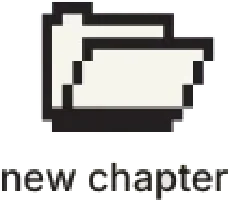
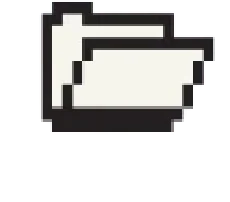
feat: terminal typing clicks, smaller LOGIN SUCCESSFUL, no static on the phone intro-to-journey, folder names as text

Changed region(s): [[0.3652, 0.802, 1.0, 1.0], [0.0, 0.8317, 0.3348, 0.9505]]

diff --git a/prototype-mobile/app.js b/prototype-mobile/app.js
@@ -116,6 +116,7 @@
         el.play().then(() => { playing = true; if (!muted) fadeIn(); ui(); }, () => { playing = false; ui(); });
       },
       stop() { el.pause(); playing = false; ui(); },
+      isMuted: () => muted,
       toggle() {
         if (!playing) {
           muted = false;
@@ -133,6 +134,38 @@
   })();
   $('#mute').addEventListener('click', e => { e.stopPropagation(); Music.toggle(); });
 
+  // ---------------------------------------------------------------- the terminal's key clicks
+  // A few milliseconds of filtered noise per character (no sound file). The audio context is made
+  // inside the Enter tap; the music button's mute silences it too.
+  const Typing = (() => {
+    let ctx = null;
+    let noise = null;
+    return {
+      unlock() { try { ctx = ctx || new AudioContext(); ctx.resume(); } catch (e) { ctx = null; } },
+      tick(ch) {
+        if (!ctx || ctx.state !== 'running' || Music.isMuted() || ch === ' ') return;
+        if (!noise) {
+          noise = ctx.createBuffer(1, Math.ceil(ctx.sampleRate * 0.03), ctx.sampleRate);
+          const d = noise.getChannelData(0);
+          for (let i = 0; i < d.length; i++) d[i] = Math.random() * 2 - 1;
+        }
+        const t = ctx.currentTime;
+        const src = ctx.createBufferSource();
+        src.buffer = noise;
+        const f = ctx.createBiquadFilter();
+        f.type = 'bandpass';
+        f.frequency.value = 1800 + Math.random() * 1600;
+        f.Q.value = 1.2;
+        const g = ctx.createGain();
+        g.gain.setValueAtTime(0.05 * (0.7 + Math.random() * 0.6), t);
+        g.gain.exponentialRampToValueAtTime(0.0001, t + 0.028);
+        src.connect(f).connect(g).connect(ctx.destination);
+        src.start(t);
+        src.stop(t + 0.03);
+      },
+    };
+  })();
+
   // ================================================================ 01 · gate
   const pw = $('#pw');
   const go = $('#go');
@@ -144,6 +177,7 @@
   function enter() {
     if (busy || current !== 1) return;
     Music.playMutedSync();  // inside the gesture, before anything async
+    Typing.unlock();
     if (!pw.value.trim()) {
       Music.stop();
       pill.classList.remove('is-wrong');
@@ -238,6 +272,7 @@
     p.append(tn, caret);
     for (const ch of text) {
       tn.data += ch;
+      if (!reduced) Typing.tick(ch);
       await wait(reduced ? 0 : speed * rand(0.55, 1.45) + (ch === ' ' ? 18 : 0));
     }
   }
@@ -538,42 +573,10 @@
       setTimeout(finish, ms + 400);
     });
   }
-  // a short burst of analog-TV static over the cut between the film and the meadow
-  const burstEl = $('#burst');
-  const burstCv = $('canvas', burstEl);
-  const bars = Array.from({ length: 5 }, () => { const i = document.createElement('i'); burstEl.append(i); return i; });
-  async function burst(ms = 560) {
-    if (reduced) { await wait(150); return; }
-    const ctx = burstCv.getContext('2d');
-    const t0 = performance.now();
-    burstEl.style.opacity = 1;
-    const tick = () => {
-      const k = Math.sin(Math.min(1, (performance.now() - t0) / ms) * Math.PI);
-      const img = ctx.createImageData(burstCv.width, burstCv.height);
-      const hot = 0.04 + 0.2 * k;
-      for (let i = 0; i < img.data.length; i += 4) {
-        const v = Math.random() < hot ? 255 : Math.random() * 120;
-        img.data[i] = img.data[i + 1] = img.data[i + 2] = v;
-        img.data[i + 3] = 255;
-      }
-      ctx.putImageData(img, 0, 0);
-      burstCv.style.opacity = (0.15 + 0.7 * k * rand(0.5, 1)).toFixed(2);
-      bars.forEach(b => {
-        b.style.top = rand(0, 95) + '%';
-        b.style.height = rand(1.5, 9) * (0.4 + k) + '%';
-        b.style.transform = `translateX(${rand(-6, 6) * k}%)`;
-        b.style.opacity = Math.random() < 0.8 ? (0.35 + 0.5 * k).toFixed(2) : 0;
-      });
-    };
-    const iv = setInterval(tick, 33);
-    await wait(ms);
-    clearInterval(iv);
-    burstEl.style.opacity = 0;
-  }
 
-  // 03 -> 04: the camera pushes into the screen until the film fills the view, a burst of static
-  // covers the cut, and the camera travels on into the meadow (its layers come up from a little
-  // way back, the nearer ones moving faster)
+  // 03 -> 04: the camera pushes into the screen until the film fills the view, the film dissolves
+  // (no static: there is no monitor on the phone), and the camera travels on into the meadow (its
+  // layers come up from a little way back, the nearer ones moving faster)
   async function go34(target = 4) {
     busy = true;
     const st3 = stageOf(3);
@@ -583,14 +586,15 @@
     folder4.style.opacity = 0;
     play($('.s03-ui', st3), [{ opacity: 1 }, { opacity: 0 }], { duration: 300 });
     await play(st3, [{ transform: 'none' }, { transform: 'scale(1.6)' }], { duration: 1300, easing: 'cubic-bezier(.45,0,.9,.6)' });
-    const cover = burst(560);
-    await wait(230);
-    hide(3);
-    resetStyles(st3, $('.s03-ui', st3));
-    video3.pause();
     show(4);
+    const dissolve = play(scenes[3], [{ opacity: 1 }, { opacity: 0 }], { duration: 700, easing: 'ease-in-out' }).then(() => {
+      hide(3);
+      scenes[3].style.removeProperty('opacity');
+      resetStyles(st3, $('.s03-ui', st3));
+      video3.pause();
+    });
     await Promise.all([
-      cover,
+      dissolve,
       tween(reduced ? 200 : 2100, easeOut3, poseArrival),
       play(folder4, [{ opacity: 0 }, { opacity: 1 }], { duration: 700, delay: 1500 }),
     ]);
@@ -600,7 +604,7 @@
     busy = false;
   }
 
-  // 04 -> 03: the camera backs out of the meadow, static covers the cut, the film pulls back
+  // 04 -> 03: the camera backs out of the meadow, the film dissolves in and pulls back (no static)
   async function go43() {
     busy = true;
     const st3 = stageOf(3);
@@ -608,18 +612,19 @@
     if (winOpen) play(win4, [{ opacity: 1 }, { opacity: 0 }], { duration: 400 });
     play(folder4, [{ opacity: 1 }, { opacity: 0 }], { duration: 400 });
     await tween(reduced ? 200 : 1200, easeIn2, q => poseArrival(1 - q));
-    const cover = burst(560);
-    await wait(230);
     st3.style.transform = 'scale(1.6)';
     $('.s03-ui', st3).style.opacity = 0;
+    scenes[3].style.opacity = 0;
     show(3);
     video3.style.opacity = 1;  // the film may never have tuned in (a ?scene= jump)
     video3.play().catch(() => {});
-    hide(4);
-    reset04();
-    restWorld(null);
     await Promise.all([
-      cover,
+      play(scenes[3], [{ opacity: 0 }, { opacity: 1 }], { duration: 600, easing: 'ease-in-out' }).then(() => {
+        scenes[3].style.removeProperty('opacity');
+        hide(4);
+        reset04();
+        restWorld(null);
+      }),
       play(st3, [{ transform: 'scale(1.6)' }, { transform: 'none' }], { duration: 1600, easing: 'cubic-bezier(.2,.75,.2,1)' }),
       play($('.s03-ui', st3), [{ opacity: 0 }, { opacity: 1 }], { duration: 700, delay: 1000 }),
     ]);

diff --git a/prototype-mobile/styles.css b/prototype-mobile/styles.css
@@ -197,7 +197,7 @@ img.layer, .bub, .grass, .flowers, .bezel { pointer-events: none; }
 @keyframes blink { 50% { opacity: 0; } }
 .t-login {
   position: relative; margin: 7cqw 0 3.5cqw;
-  font: 500 7.2cqw/1 Orbitron, "Courier New", monospace; letter-spacing: .03em; opacity: 0;
+  font: 500 6cqw/1 Orbitron, "Courier New", monospace; letter-spacing: .03em; opacity: 0;
 }
 .t-progress { position: relative; height: 13cqw; margin-bottom: 8cqw; opacity: 0; }  /* no box behind it */
 .t-bar {
@@ -302,6 +302,11 @@ img.layer, .bub, .grass, .flowers, .bezel { pointer-events: none; }
 .folder { background: none; }
 .folder img { display: block; width: 100%; height: 100%; image-rendering: pixelated; transition: filter .12s; }
 .folder.is-selected img { filter: invert(1) hue-rotate(180deg) brightness(.9); }
+.folder__label {
+  position: absolute; left: 50%; top: 68%; width: max-content; max-width: 28cqw; transform: translateX(-50%);
+  text-align: center; font-size: 3.4cqw; font-weight: 500; line-height: 1.25; color: #1d1f18;
+  text-shadow: 0 0 1.6cqw rgba(255,255,255,.8); pointer-events: none;
+}
 .folder::after { content: ""; position: absolute; inset: -30% -40%; }  /* a bigger tap target */
 .cursor { opacity: 0; transform-origin: 10% 5%; pointer-events: none; image-rendering: pixelated; }
 
@@ -425,10 +430,6 @@ details p { margin: 2.4cqw 0 0; font-size: 3.2cqw; }
 @keyframes wglint-a { 0%, 100% { transform: translateX(-.3%); opacity: .45; } 50% { transform: translateX(.3%); opacity: .85; } }
 @keyframes wglint-b { 0%, 100% { transform: translateX(.45%) scale(1.004); opacity: .8; } 50% { transform: translateX(-.45%) scale(1); opacity: .35; } }
 #s04, #s05 { background: transparent; }
-/* a short burst of static over the cut between the film and the meadow */
-.burst { position: absolute; inset: 0; z-index: 40; pointer-events: none; opacity: 0; mix-blend-mode: screen; }
-.burst canvas { position: absolute; inset: 0; width: 100%; height: 100%; display: block; }
-.burst i { position: absolute; left: 0; width: 100%; background: rgba(255,255,255,.7); opacity: 0; }
 
 .haze { position: absolute; inset: 0; z-index: 30; pointer-events: none; opacity: 0; background: radial-gradient(ellipse at 50% 55%, #f4f8fb 0%, #dfeaf2 55%, #c9dbe8 100%); }
 .toast {

diff --git a/lib/audio/typing.ts b/lib/audio/typing.ts
@@ -1,0 +1,50 @@
+// The terminal's key clicks: a few milliseconds of filtered noise per character, made with the
+// Web Audio API so there is no sound file to load. The context has to be created inside a tap, so
+// the gate calls `unlockTyping()` when Enter is pressed; before that (or if the browser refuses)
+// the ticks are silent. The music button's mute state (localStorage `muted`) silences them too.
+
+const MUTED_STORAGE_KEY = 'muted';
+const PEAK = 0.05;
+
+let ctx: AudioContext | null = null;
+let noise: AudioBuffer | null = null;
+
+export function unlockTyping() {
+  try {
+    ctx ??= new AudioContext();
+    void ctx.resume();
+  } catch {
+    ctx = null;
+  }
+}
+
+function isMuted() {
+  try {
+    return window.localStorage.getItem(MUTED_STORAGE_KEY) === '1';
+  } catch {
+    return false;
+  }
+}
+
+export function typingTick(ch: string) {
+  if (!ctx || ctx.state !== 'running' || isMuted() || ch === ' ') return;
+  noise ??= (() => {
+    const buffer = ctx.createBuffer(1, Math.ceil(ctx.sampleRate * 0.03), ctx.sampleRate);
+    const data = buffer.getChannelData(0);
+    for (let i = 0; i < data.length; i++) data[i] = Math.random() * 2 - 1;
+    return buffer;
+  })();
+  const t = ctx.currentTime;
+  const source = ctx.createBufferSource();
+  source.buffer = noise;
+  const filter = ctx.createBiquadFilter();
+  filter.type = 'bandpass';
+  filter.frequency.value = 1800 + Math.random() * 1600;
+  filter.Q.value = 1.2;
+  const gain = ctx.createGain();
+  gain.gain.setValueAtTime(PEAK * (0.7 + Math.random() * 0.6), t);
+  gain.gain.exponentialRampToValueAtTime(0.0001, t + 0.028);
+  source.connect(filter).connect(gain).connect(ctx.destination);
+  source.start(t);
+  source.stop(t + 0.03);
+}

diff --git a/prototype-mobile/index.html b/prototype-mobile/index.html
@@ -97,6 +97,7 @@
     <div class="stage">
       <button class="layer folder" data-asset="p04_folder" id="folder4" aria-label="Open the journey folder">
         <img data-src="p04_folder" alt="">
+        <span class="folder__label">our story</span>
       </button>
       <div class="win" id="win4" role="dialog" aria-label="Our journey">
         <div class="win__bar">
@@ -114,6 +115,7 @@
     <div class="stage">
       <button class="layer folder" data-asset="p05_folder" id="folder5" aria-label="Open the new chapter folder">
         <img data-src="p05_folder" alt="">
+        <span class="folder__label">and now, our new chapter begins</span>
       </button>
       <div class="win win--sheet" id="win5" role="dialog" aria-label="The wedding">
         <div class="win__bar">
@@ -145,7 +147,6 @@
     </svg>
   </button>
 
-  <div class="burst" id="burst" aria-hidden="true"><canvas width="108" height="234"></canvas></div>
   <div class="toast" role="status"></div>
 </main>
 

diff --git a/components/site/scene/Terminal.tsx b/components/site/scene/Terminal.tsx
@@ -4,6 +4,7 @@ import gsap from 'gsap';
 import { useEffect, useImperativeHandle, useRef, type Ref } from 'react';
 import { sceneAssets as a } from '@/config/scene-layers.generated';
 import { terminalCopy } from '@/content/terminal';
+import { typingTick } from '@/lib/audio/typing';
 import { finishPercent, rampPercent } from '@/lib/scene/terminal';
 import { Stage, StageFill, boxStyle } from './Stage';
 import { prefersReducedMotion, rand, sleep } from './timing';
@@ -132,6 +133,7 @@ export function Terminal({ ref }: { ref?: Ref<TerminalHandle> }) {
     if (caret.current) p.append(caret.current);
     for (const ch of text) {
       node.data += ch;
+      if (!prefersReducedMotion()) typingTick(ch);
       await sleep(speed * rand(0.55, 1.45) + (ch === ' ' ? 18 : 0), signal);
     }
   }

diff --git a/app/globals.css b/app/globals.css
@@ -1177,7 +1177,7 @@
   top: 36.5cqh;
   margin: 0;
   font:
-    500 4.55cqh/1 Orbitron,
+    500 3.7cqh/1 Orbitron,
     'Courier New',
     monospace;
   letter-spacing: 0.03em;
@@ -1367,6 +1367,21 @@ html[data-scenes] .topbar {
 /* The journey's pixel-art folder inverts while it is "clicked" */
 .stage-folder img {
   transition: filter 0.12s;
+}
+.stage-folder__label {
+  position: absolute;
+  left: 50%;
+  top: 66%;
+  width: max-content;
+  max-width: 9.5cqw;
+  transform: translateX(-50%);
+  text-align: center;
+  font-size: 1cqw;
+  font-weight: 500;
+  line-height: 1.25;
+  color: #1d1f18;
+  text-shadow: 0 0 0.6cqw rgba(255, 255, 255, 0.75);
+  pointer-events: none;
 }
 .stage-folder.is-selected img {
   filter: invert(1) hue-rotate(180deg) brightness(0.9);

diff --git a/components/site/gate/GateScreen.tsx b/components/site/gate/GateScreen.tsx
@@ -3,6 +3,7 @@
 import { useRouter } from 'next/navigation';
 import { useEffect, useState } from 'react';
 import { useAudio } from '@/components/site/AudioProvider';
+import { unlockTyping } from '@/lib/audio/typing';
 import { gateDestination } from '@/lib/scene/arrival';
 import { STORY_MOBILE_QUERY } from '@/lib/track/layout';
 import { DesktopGate } from './DesktopGate';
@@ -48,6 +49,7 @@ export function GateScreen({ next }: { next: string }) {
     // here, not after the fetch resolves. docs/PLAN.md "The autoplay
     // problem".
     audio.playMutedSync();
+    unlockTyping(); // the terminal's key clicks need their audio context made inside this tap
     void submit();
   }
 

diff --git a/components/site/scene/WeddingScene.tsx b/components/site/scene/WeddingScene.tsx
@@ -192,6 +192,7 @@ export function WeddingScene({ ref }: { ref?: Ref<WeddingHandle> }) {
             draggable={false}
             className="block h-full w-full max-w-none"
           />
+          <span className="stage-folder__label">and now, our new chapter begins</span>
         </button>
 
         <GlassWindow

diff --git a/components/site/scene/JourneyScene.tsx b/components/site/scene/JourneyScene.tsx
@@ -223,6 +223,7 @@ export function JourneyScene({ ref }: { ref?: Ref<JourneyHandle> }) {
             draggable={false}
             className="block h-full w-full max-w-none"
           />
+          <span className="stage-folder__label">our story</span>
         </button>
 
         <GlassWindow

diff --git a/scripts/design/prepare_assets.py b/scripts/design/prepare_assets.py
@@ -298,6 +298,7 @@ for src, out, fold_box, cur_box, hole_box in [
     full(out + "_bg", out + "_bg.jpg", bg)
     cur = rect(sh, *cur_box)
     F, a = matte(im, bg, rect(sh, *fold_box) & ~cur)
+    a[560:, :] = 0  # below the icon is the painted label; the scenes draw it as text now
     box = save_rgba(F, a, out + "_folder.webp")
     place(out + "_folder", out + "_folder.webp", box, W, H)
     if out == "j00":

diff --git a/docs/REVIEW_PLAN.md b/docs/REVIEW_PLAN.md
@@ -340,3 +340,22 @@ The full run, Password → Login → Intro → Journey → Wedding and back:
 - **Not verified, and what that means:** a real iPhone or Android phone, Messenger's in-app browser,
   Safari on a Mac, a laptop at 125% zoom, 1366 x 768, real-time smoothness of the camera moves (judged
   from frames), and performance on a mid-range phone. These are the things to watch after a deploy.
+
+## 9. Follow-ups after the owner's phone test (26 Oct)
+
+- **Typing clicks:** the terminal plays a short key click per character (`lib/audio/typing.ts`,
+  synthesized with Web Audio, no file; the same in `prototype-mobile/app.js`). The audio context is
+  created inside the Enter tap (`unlockTyping()` in `GateScreen`); the music button's mute silences it.
+- **LOGIN SUCCESSFUL** is smaller (`.crt-login` 3.7cqh, was 4.55cqh; phone `.t-login` 6cqw, was
+  7.2cqw), still larger than the boot lines.
+- **Phone prototype 03 to 04 and back:** the film dissolves into the meadow, no static burst (there
+  is no monitor frame on the phone). The desktop keeps the burst. The unused burst code is gone from
+  the prototype.
+- **Folder names are text now:** "our story" (journey) and "and now, our new chapter begins"
+  (wedding). The painted labels were erased from `j00_folder.webp`, `j05_folder.webp` and the
+  prototype's `p04_folder.webp` / `p05_folder.webp` (same size, label rows transparent); the text is
+  `.stage-folder__label` (site) and `.folder__label` (prototype). `prepare_assets.py` blanks the label
+  rows too if the pictures are regenerated; `prepare_portrait.py` resamples those, so it follows.
+- **Phone fit and swipes (prototype):** the password logo and the windows sit on the visible part of
+  the stage on phones shorter than 9:19.5; swipes register on move, and swiping down from an open
+  wedding sheet no longer goes back to the journey.

diff --git a/prototype-mobile/README.md b/prototype-mobile/README.md
@@ -30,6 +30,8 @@ without being copied. Any password works.
   never moves. The **music button** is fixed bottom-left, one instance, with a speaker (off)
   or moving bars (on).
 - The journey card and the wedding sheet are CSS glass (blur, tint, bright rim), no images.
+- The terminal clicks as it types (Web Audio, no file). 03 to 04 dissolves (no static on the phone).
+- The folder names ("our story", "and now, our new chapter begins") are text over the folder icons.
 
 ## How it was made
 
